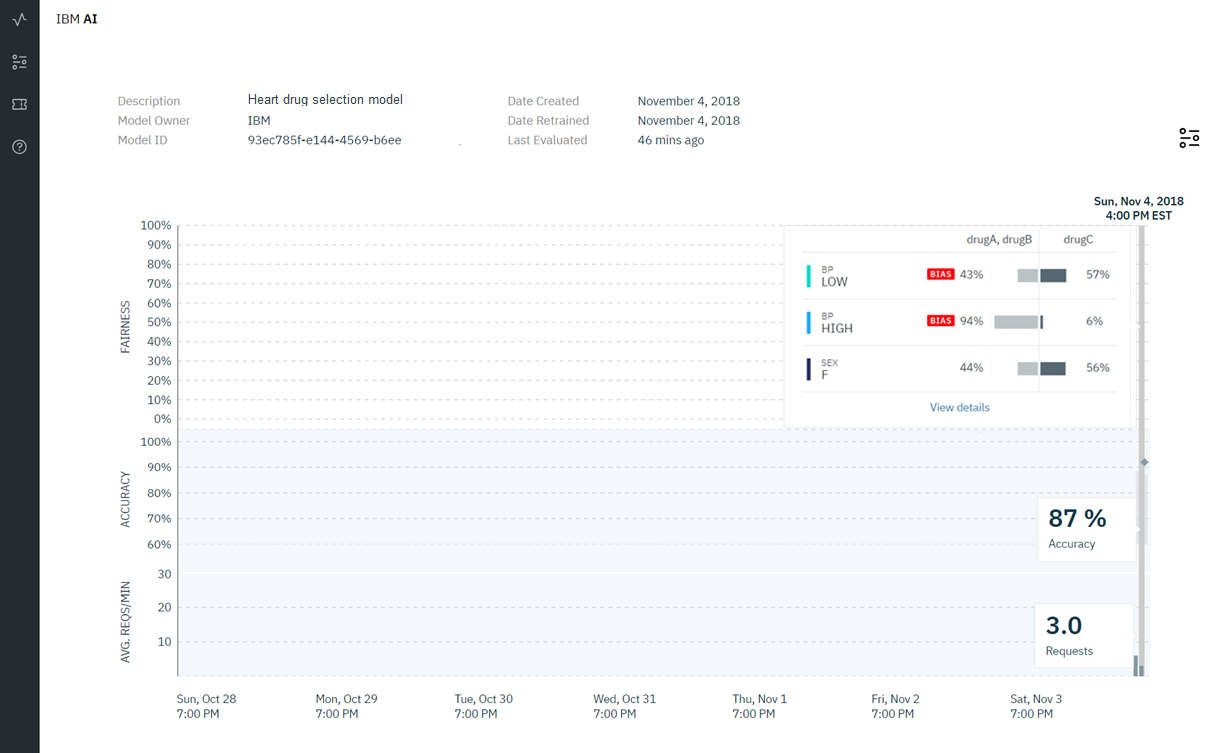
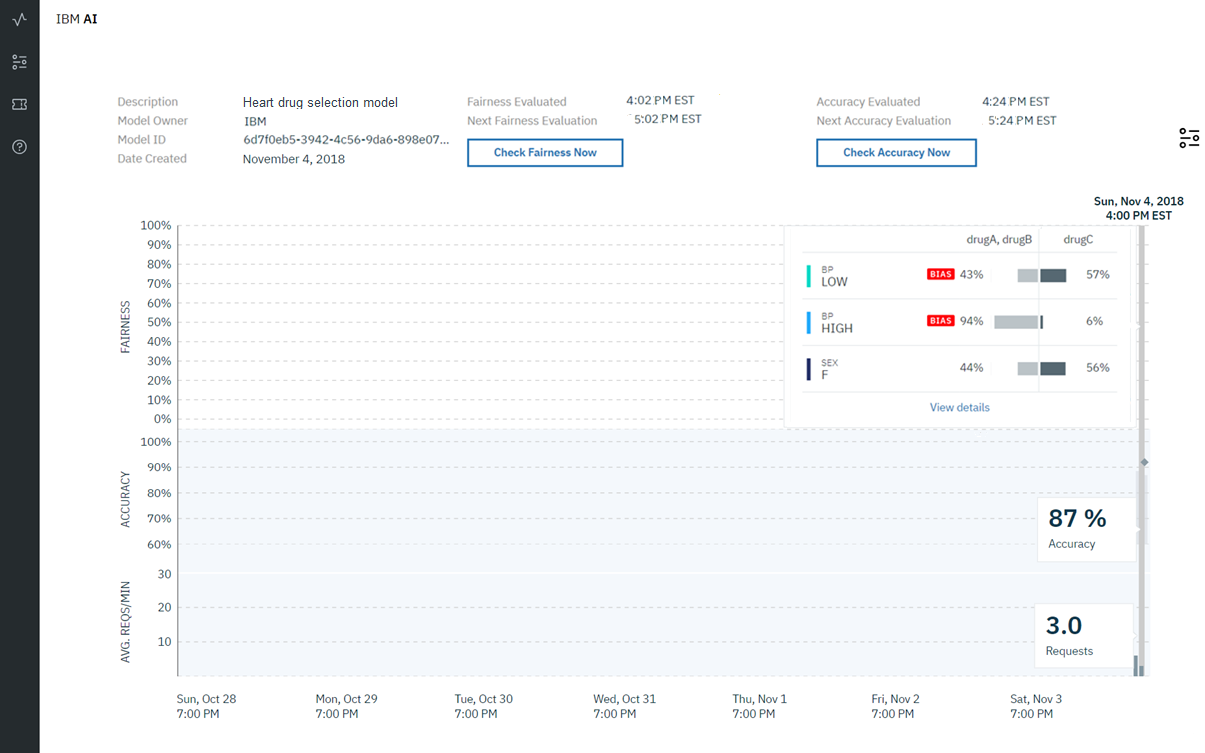
Updated for issue #4452

diff --git a/insight-timechart.md b/insight-timechart.md
@@ -1,8 +1,8 @@
 ---
 
 copyright:
-  years: 2018
-lastupdated: "2018-12-21"
+  years: 2018, 2019
+lastupdated: "2019-01-28"
 
 ---
 
@@ -24,11 +24,15 @@ Monitoring data for individual deployments are displayed in a time series chart.
 ## Viewing data for a deployment
 {: #view}
 
-Select a deployment from the dashboard to see monitoring data for that deployment.
+Select a deployment from the dashboard to see monitoring data for that deployment. The top of the monitoring data chart displays information about the deployed model, including when the model was last evaluated for Fairness and Accuracy, and when it will be evaluated next.
 
 ![Time series chart](images/insight-time-chart.png)
 
-Move the marker across the chart to see statistics for an individual hour. In this example, the time selected is 1:00 PM CST on September 18, which reveals the following statistics:
+Because the algorithm checks are only run every hour, there are also buttons provided to allow you to check Fairness and Accuracy on-demand. If you have not provided enough payload records (Fairness) or feedback records (Accuracy), you will see the following message, for example:
+
+![Accuracy button](images/accuracy-button.png)
+
+Next, move the marker across the chart to see statistics for an individual hour. In this example, the time selected is 1:00 PM CST on September 18, which reveals the following statistics:
 
 ![Time series chart detail](images/insight-time-detail.png)
 

diff --git a/getting-started.md b/getting-started.md
@@ -10,7 +10,7 @@ takeaways:
 
 copyright:
   years: 2018, 2019
-lastupdated: "2019-01-21"
+lastupdated: "2019-01-28"
 
 ---
 
